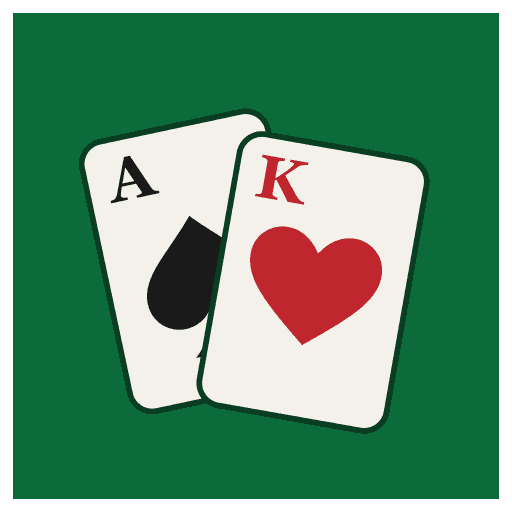
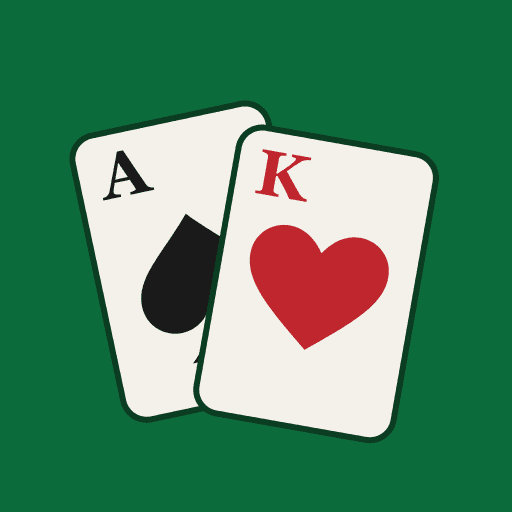
PWA: icono y nombre correctos al instalar en iOS y Android
- Iconos regenerados sin marco blanco (fondo verde a sangre) y el
  maskable con margen para la zona segura de Android.
- /apple-touch-icon.png y -precomposed.png, que iOS pide por defecto.
- Manifest con id y purpose "any"; los archivos que no existen ya no
  devuelven el HTML de la app.

diff --git a/frontend/vite.config.ts b/frontend/vite.config.ts
@@ -31,8 +31,16 @@ export default defineConfig(({ mode }) => {
           // instead of being answered with the cached app shell.
           navigateFallbackDenylist: [/^\/api\//, /^\/i\//],
         },
-        includeAssets: ['favicon.ico', 'apple-touch-icon-180x180.png', 'icon.svg'],
+        includeAssets: [
+          'favicon.ico',
+          'icon.svg',
+          'apple-touch-icon-180x180.png',
+          // iOS also requests these default paths, whatever the <link> says.
+          'apple-touch-icon.png',
+          'apple-touch-icon-precomposed.png',
+        ],
         manifest: {
+          id: '/',
           name: 'Blackjack with Friends',
           short_name: 'Blackjack',
           description: 'Juega al blackjack con tus amigos',
@@ -44,9 +52,9 @@ export default defineConfig(({ mode }) => {
           background_color: '#0b6b3a',
           theme_color: '#0b6b3a',
           icons: [
-            { src: 'pwa-64x64.png', sizes: '64x64', type: 'image/png' },
-            { src: 'pwa-192x192.png', sizes: '192x192', type: 'image/png' },
-            { src: 'pwa-512x512.png', sizes: '512x512', type: 'image/png' },
+            { src: 'pwa-64x64.png', sizes: '64x64', type: 'image/png', purpose: 'any' },
+            { src: 'pwa-192x192.png', sizes: '192x192', type: 'image/png', purpose: 'any' },
+            { src: 'pwa-512x512.png', sizes: '512x512', type: 'image/png', purpose: 'any' },
             {
               src: 'maskable-icon-512x512.png',
               sizes: '512x512',

diff --git a/frontend/pwa-assets.config.ts b/frontend/pwa-assets.config.ts
@@ -1,0 +1,32 @@
+import { defineConfig, type Preset } from '@vite-pwa/assets-generator/config'
+
+// Regenerate the icons in public/ from public/icon.svg with:
+//   npm run generate-pwa-assets -w @bwf/frontend
+// The built-in presets pad with white, which shows as a white frame on iOS and
+// as white corners once Android crops the maskable icon, so pad with the felt green.
+const FELT = '#0b6b3a'
+
+const preset: Preset = {
+  transparent: {
+    sizes: [64, 192, 512],
+    favicons: [[48, 'favicon.ico']],
+    padding: 0,
+  },
+  maskable: {
+    sizes: [512],
+    // Keep the cards inside Android's safe zone (the central 80% circle).
+    padding: 0.3,
+    resizeOptions: { background: FELT },
+  },
+  apple: {
+    sizes: [180],
+    padding: 0.1,
+    resizeOptions: { background: FELT },
+  },
+}
+
+export default defineConfig({
+  headLinkOptions: { preset: '2023' },
+  preset,
+  images: ['public/icon.svg'],
+})

diff --git a/frontend/index.html b/frontend/index.html
@@ -8,7 +8,7 @@
     <meta name="theme-color" content="#0b6b3a" />
     <link rel="icon" href="/favicon.ico" sizes="48x48" />
     <link rel="icon" href="/icon.svg" type="image/svg+xml" />
-    <link rel="apple-touch-icon" href="/apple-touch-icon-180x180.png" />
+    <link rel="apple-touch-icon" sizes="180x180" href="/apple-touch-icon-180x180.png" />
     <meta name="apple-mobile-web-app-capable" content="yes" />
     <meta name="mobile-web-app-capable" content="yes" />
     <meta name="apple-mobile-web-app-status-bar-style" content="black-translucent" />
